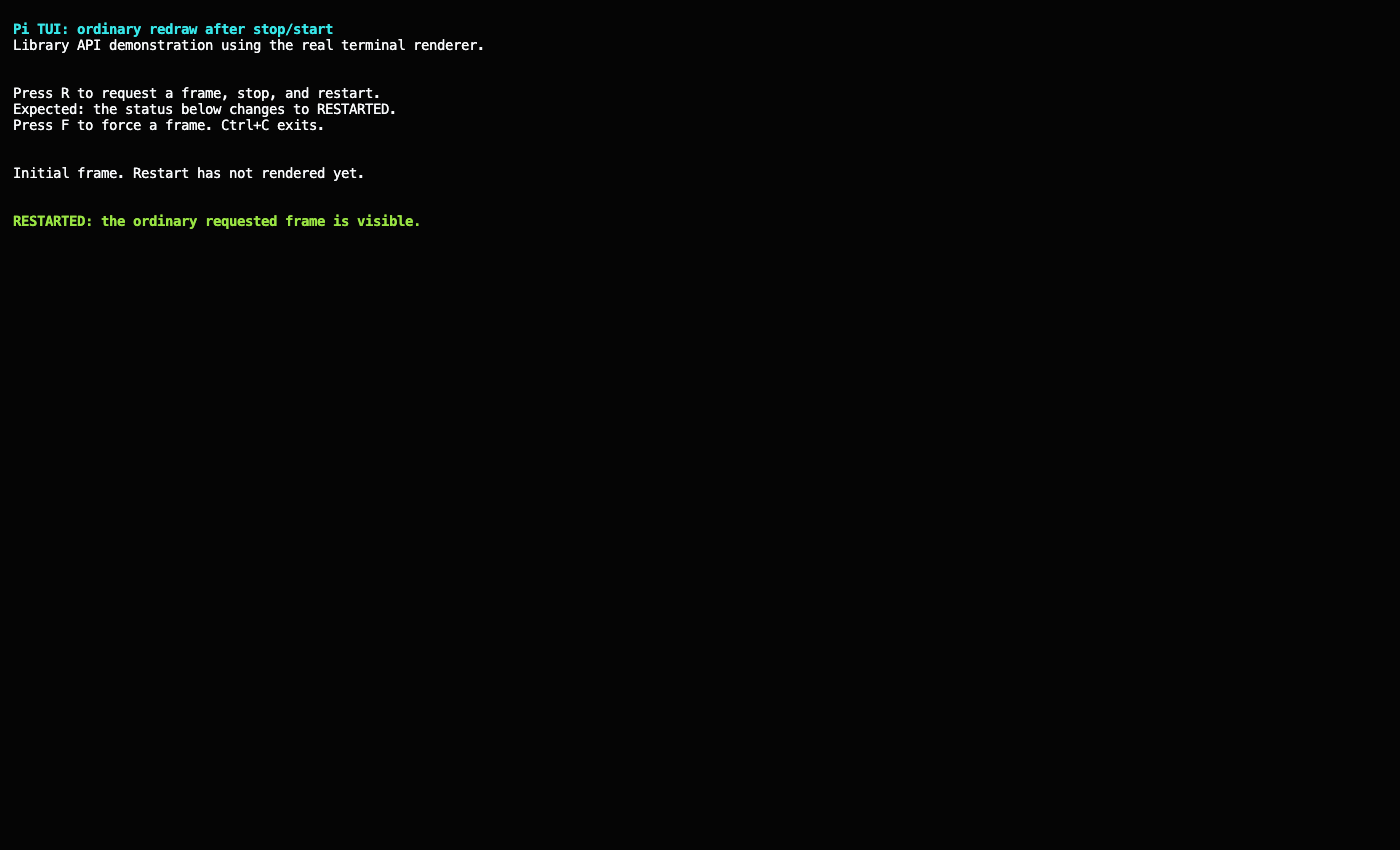
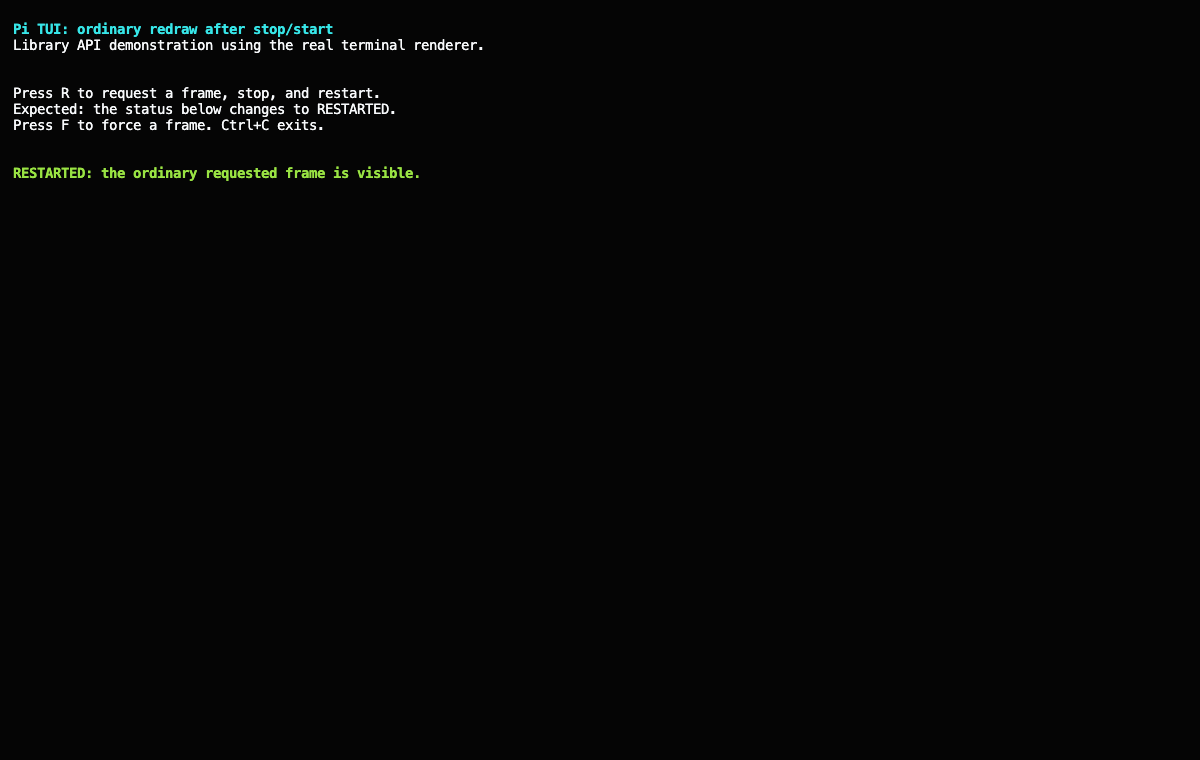
fix(tui): redraw the complete frame after a main-screen restart

Changed region(s): [[0.0, 0.0303, 0.4008, 0.2724]]

diff --git a/packages/tui/test/tui-render.test.ts b/packages/tui/test/tui-render.test.ts
@@ -199,36 +199,63 @@ describe("TUI render scheduling", () => {
 
 	for (const Renderer of [TuiMainScreen, TuiAltScreen]) {
 		for (const { name, stop } of pendingRenderStops) {
-			it(`${Renderer.name} renders after stop() and start() with ${name}`, async () => {
-				const terminal = new VirtualTerminal(40, 10);
+			it(`${Renderer.name} draws the current frame after stop() and start() with ${name}`, async () => {
+				const terminal = new VirtualTerminal(40, 6);
 				const tui: TUI = new Renderer(terminal);
 				const component = new StopOnInputComponent(tui);
-				component.lines = ["initial"];
+				component.lines = ["a1", "b2", "c3", "d4"];
 				tui.addChild(component);
 				tui.setFocus(component);
 				tui.start();
 				await terminal.waitForRender();
 
-				component.lines = ["pending"];
+				// Only the first line changes, so a diff against the screen stop() left behind lands on the wrong rows.
+				component.lines = ["A1", "b2", "c3", "d4"];
 				await stop(tui, terminal);
 				tui.start();
 				await terminal.waitForRender();
-				assert.ok(
-					terminal.getViewport().some((line) => line.includes("pending")),
-					"start() should render the current state",
+				assert.deepStrictEqual(
+					terminal.getViewport(),
+					["A1", "b2", "c3", "d4", "", ""],
+					"start() should draw the current frame",
 				);
 
-				component.lines = ["updated"];
+				component.lines = ["A1", "b2", "c3", "D4"];
 				tui.requestRender();
 				await terminal.waitForRender();
-				assert.ok(
-					terminal.getViewport().some((line) => line.includes("updated")),
-					"ordinary render requests should keep rendering",
+				assert.deepStrictEqual(
+					terminal.getViewport(),
+					["A1", "b2", "c3", "D4", "", ""],
+					"ordinary render requests should update that frame",
 				);
 				tui.stop();
 			});
 		}
 	}
+
+	it("TuiMainScreen hands a preserved screen to a restored renderer without redrawing it", async () => {
+		const terminal = new VirtualTerminal(40, 6);
+		// Output above the frame shows whether either start() cleared the screen.
+		terminal.write("shell prompt\r\n");
+		const component = new TestComponent();
+		component.lines = ["a1", "b2", "c3", "d4"];
+		const first = new TuiMainScreen(terminal);
+		first.addChild(component);
+		first.start();
+		await terminal.waitForRender();
+
+		// Switching between regular and fullscreen mode hands the main screen to a new renderer this way.
+		const state = first.captureRenderState();
+		first.stop({ preserveScreen: true });
+		const next = new TuiMainScreen(terminal);
+		next.restoreRenderState(state);
+		next.addChild(component);
+		component.lines = ["A1", "b2", "c3", "d4"];
+		next.start();
+		await terminal.waitForRender();
+		assert.deepStrictEqual(terminal.getViewport(), ["shell prompt", "A1", "b2", "c3", "d4", ""]);
+		next.stop();
+	});
 });
 
 describe("TUI debug logging", () => {

diff --git a/packages/tui/src/tui-main-screen.ts b/packages/tui/src/tui-main-screen.ts
@@ -176,6 +176,8 @@ export class TuiMainScreen extends TuiBase implements TUI {
 		if (lineDiff > 0) this.terminal.write(`\x1b[${lineDiff}B`);
 		else if (lineDiff < 0) this.terminal.write(`\x1b[${-lineDiff}A`);
 		this.terminal.write("\r\n");
+		// The cursor has left the frame the render state describes, so the first frame after start() redraws the screen.
+		this.resetRenderState();
 	}
 
 	private collectKittyImageIds(lines: string[]): Set<number> {

diff --git a/FORK.md b/FORK.md
@@ -77,7 +77,7 @@ See the [AI](packages/ai/CHANGELOG.md#unreleased), [agent](packages/coding-agent
 
 | Reason retained | Owner | Primary tests |
 | --- | --- | --- |
-| Render requests cannot outlive their callbacks across stop/start; stopping drops the owed frame and starting requests a new one | `packages/tui/src/tui.ts` | `packages/tui/test/tui-render.test.ts` |
+| Render requests cannot outlive their callbacks across stop/start; stopping drops the owed frame and starting requests a new one. A main-screen stop moves the cursor below the frame, so the first frame after a restart redraws the screen instead of diffing against it | `packages/tui/src/{tui,tui-main-screen}.ts` | `packages/tui/test/tui-render.test.ts` |
 | MCP initialization rejects a connection closed while its final notification is sent; closed stays final and close listeners run once | `packages/mcp/src/client.ts` | `packages/mcp/test/client.test.ts` |
 | Command output must drain after process exit without counting link backpressure as silence | `packages/env/daemon/src/{exec,output,process,pty}.rs` | `packages/env/test/{process,terminal,conformance,remote}.test.ts` |
 | WebSocket errors close their Chord link or HTTP scope while `ws` completes its close handshake, delivering code 1009 for oversized frames | `packages/chord/src/node/http/upgrades.ts`, `apps/p2/src/hosts/socket-limits.ts` | `packages/chord/test/node/http/upgrades.test.ts`, `apps/p2/test/p2/socket-limits.test.ts` |

diff --git a/packages/tui/CHANGELOG.md b/packages/tui/CHANGELOG.md
@@ -20,6 +20,7 @@
 
 - Fixed Markdown rendering HTML comments (`<!-- ... -->`) as visible text ([#11710](https://github.com/earendil-works/pi/issues/11710))
 - Fixed `start()` after `stop()` drawing nothing, and ignoring later `requestRender()` calls until a forced render, when a render was pending at `stop()` or requested while stopped, for example by the key handler that stopped the TUI.
+- Fixed `TuiMainScreen` drawing changed lines at the wrong rows and leaving stale lines when restarted with `stop()` and `start()` without a forced render. The first frame after the restart now clears and redraws the screen, as `requestRender(true)` does.
 
 ## [1.5.0] - 2026-11-02
 
